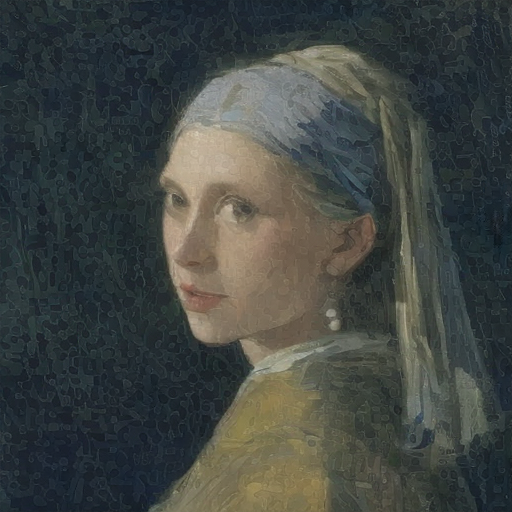
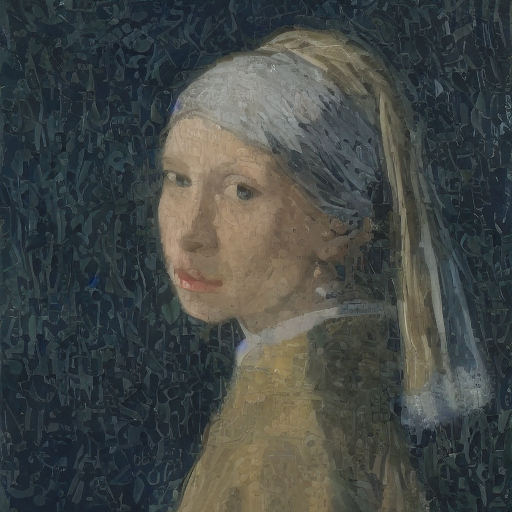
test run with sdv1-5 and alphas_cumprod[0], confirm 1-5 and dreamshaper compatible.

diff --git a/main.py b/main.py
@@ -8,7 +8,7 @@ from model import DiffMorpherPipeline
 
 parser = ArgumentParser()
 parser.add_argument(
-    "--model_path", type=str, default="lykon/dreamshaper-7", # TODO add this as option on the UI, for 2-1 and 1-5.
+    "--model_path", type=str, default="sd-legacy/stable-diffusion-v1-5", # TODO add this as option on the UI, for 2-1 and 1-5 and dreamshaper too (if works).
     help="Pretrained model to use (default: %(default)s)"
 )
 
